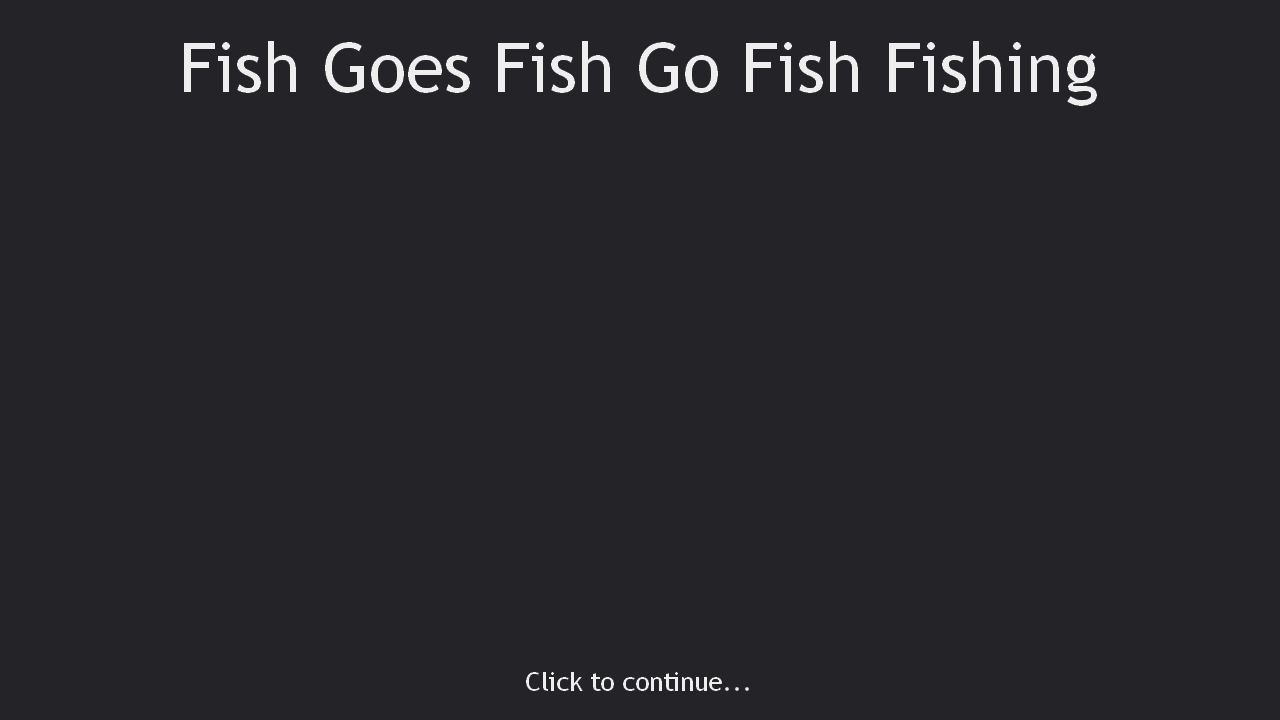
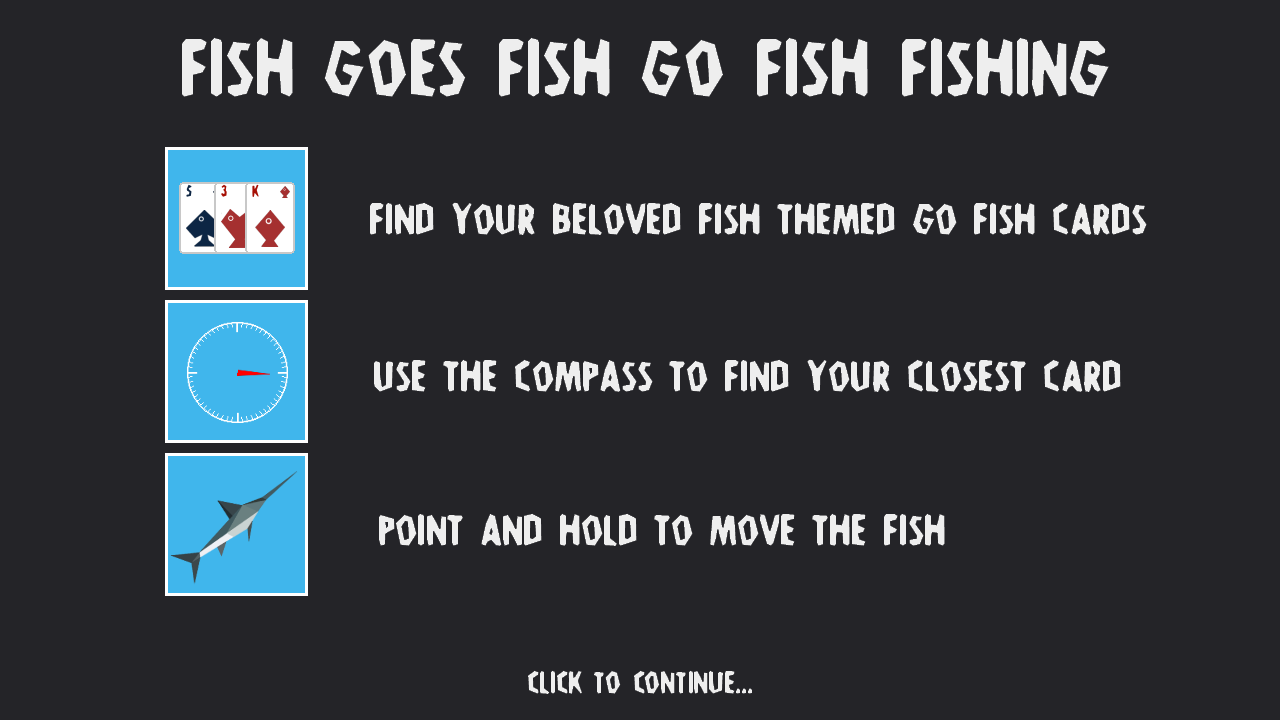
add intro screen

diff --git a/code/main.py b/code/main.py
@@ -817,9 +817,6 @@ class PauseOverlay(Sprite):
         self.image.blit(title_surf, title_rect)
         self.image.blit(subtitle_surf, subtitle_rect)
 
-    def update(self):
-        pass
-
     def render(self, surface):
         surface.blit(self.image, (0, 0))
 
@@ -857,7 +854,7 @@ class FishLevel:
 
         self.finished = False
 
-        self.in_intro = True
+        self.screen_override: str | None = "intro_screen"
 
     def add_cards(self, n: int = 52):
         for i in range(n):
@@ -868,7 +865,7 @@ class FishLevel:
             self.manager.add(Card(self.manager, pos, suit, value))
 
     def on_key_down(self, key: int):
-        if self.in_intro: return
+        if self.screen_override: return
 
         # DONT FORGET TO DELETE THIS
         if key == pygame.K_F3:
@@ -904,9 +901,9 @@ class FishLevel:
         pygame.draw.rect(surface, (255, 0, 0), (*self.camera.world_to_screen(self.player.nose_hitbox.topleft), *self.player.nose_hitbox.size), width = 1)
 
     def update(self):
-        if self.in_intro:
+        if self.screen_override:
             if pygame.mouse.get_pressed()[0]:
-                self.in_intro = False
+                self.screen_override = None
             else:
                 return
         
@@ -915,14 +912,14 @@ class FishLevel:
             return
 
         if not self.finished and len(self.manager.groups["card"]) == 0:
-            self.manager.play_sound("win", 0.7)
+            self.manager.play_sound("win", 0.4)
             self.finished = True
 
         self.manager.groups["update"].update()
 
     def render(self, surface: pygame.Surface):
-        if self.in_intro:
-            surface.blit(self.manager.get_image("intro_screen"), (0, 0))
+        if self.screen_override:
+            surface.blit(self.manager.get_image(self.screen_override), (0, 0))
             return
         
         if self.pause_overlay:
